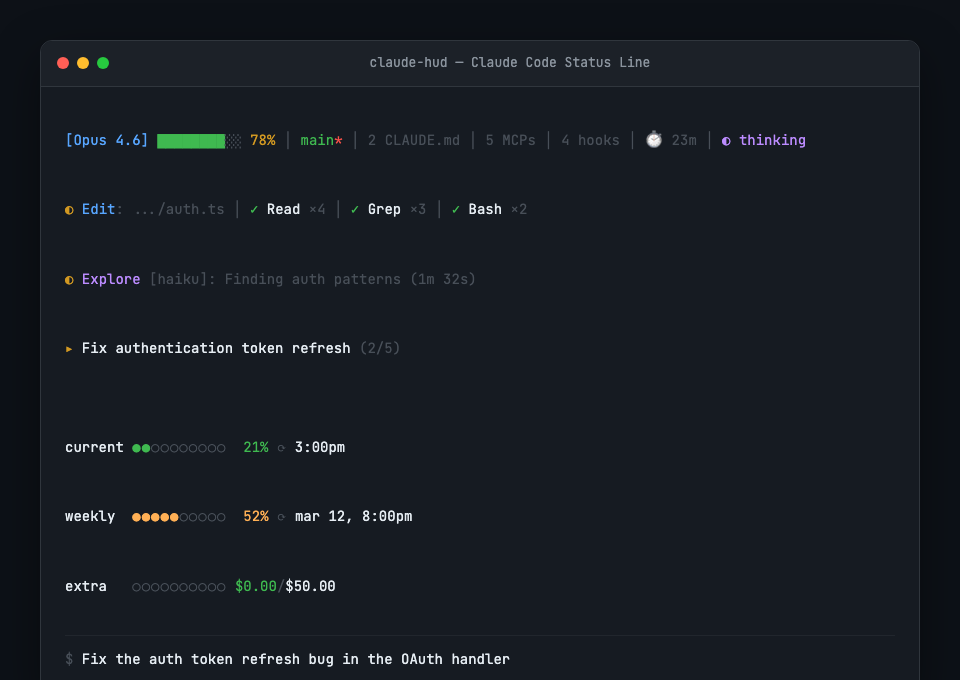
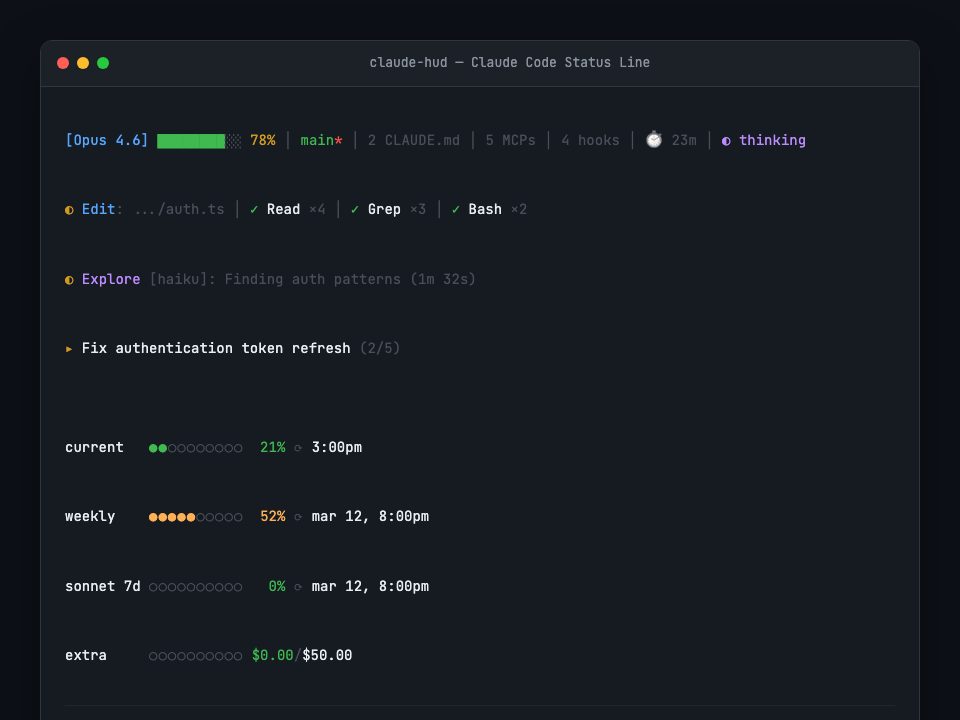
fix: update screenshots to show model-specific rate limit windows
Add sonnet 7d line to demo HTML and regenerate screenshot.png,
demo.png, and demo.gif to reflect the new rate limits display
with model-specific weekly windows (learned from CodexBar).

diff --git a/demo-video/terminal.html b/demo-video/terminal.html
@@ -184,15 +184,19 @@
 
       <!-- Rate limits -->
       <div class="hud-line" id="line-rate-current">
-<span class="white">current</span> <span class="progress-bar-bg"><span class="bar-filled">●●</span><span class="bar-empty">○○○○○○○○</span></span> <span class="green"> 21%</span> <span class="dim">⟳</span> <span class="white">3:00pm</span>
+<span class="white">current  </span> <span class="progress-bar-bg"><span class="bar-filled">●●</span><span class="bar-empty">○○○○○○○○</span></span> <span class="green"> 21%</span> <span class="dim">⟳</span> <span class="white">3:00pm</span>
       </div>
 
       <div class="hud-line" id="line-rate-weekly">
-<span class="white">weekly</span>  <span class="progress-bar-bg"><span class="bar-orange">●●●●●</span><span class="bar-empty">○○○○○</span></span> <span class="orange"> 52%</span> <span class="dim">⟳</span> <span class="white">mar 12, 8:00pm</span>
+<span class="white">weekly   </span> <span class="progress-bar-bg"><span class="bar-orange">●●●●●</span><span class="bar-empty">○○○○○</span></span> <span class="orange"> 52%</span> <span class="dim">⟳</span> <span class="white">mar 12, 8:00pm</span>
+      </div>
+
+      <div class="hud-line" id="line-rate-sonnet">
+<span class="white">sonnet 7d</span> <span class="progress-bar-bg"><span class="bar-empty">○○○○○○○○○○</span></span> <span class="green">  0%</span> <span class="dim">⟳</span> <span class="white">mar 12, 8:00pm</span>
       </div>
 
       <div class="hud-line" id="line-rate-extra">
-<span class="white">extra</span>   <span class="progress-bar-bg"><span class="bar-empty">○○○○○○○○○○</span></span> <span class="green">$0.00</span><span class="dim">/</span><span class="white">$50.00</span>
+<span class="white">extra    </span> <span class="progress-bar-bg"><span class="bar-empty">○○○○○○○○○○</span></span> <span class="green">$0.00</span><span class="dim">/</span><span class="white">$50.00</span>
       </div>
 
       <!-- Simulated prompt -->
@@ -211,8 +215,9 @@
       ['line-spacer', 1800],
       ['line-rate-current', 2100],
       ['line-rate-weekly', 2500],
-      ['line-rate-extra', 2900],
-      ['prompt', 3500],
+      ['line-rate-sonnet', 2900],
+      ['line-rate-extra', 3300],
+      ['prompt', 3900],
     ];
 
     delays.forEach(([id, delay]) => {
